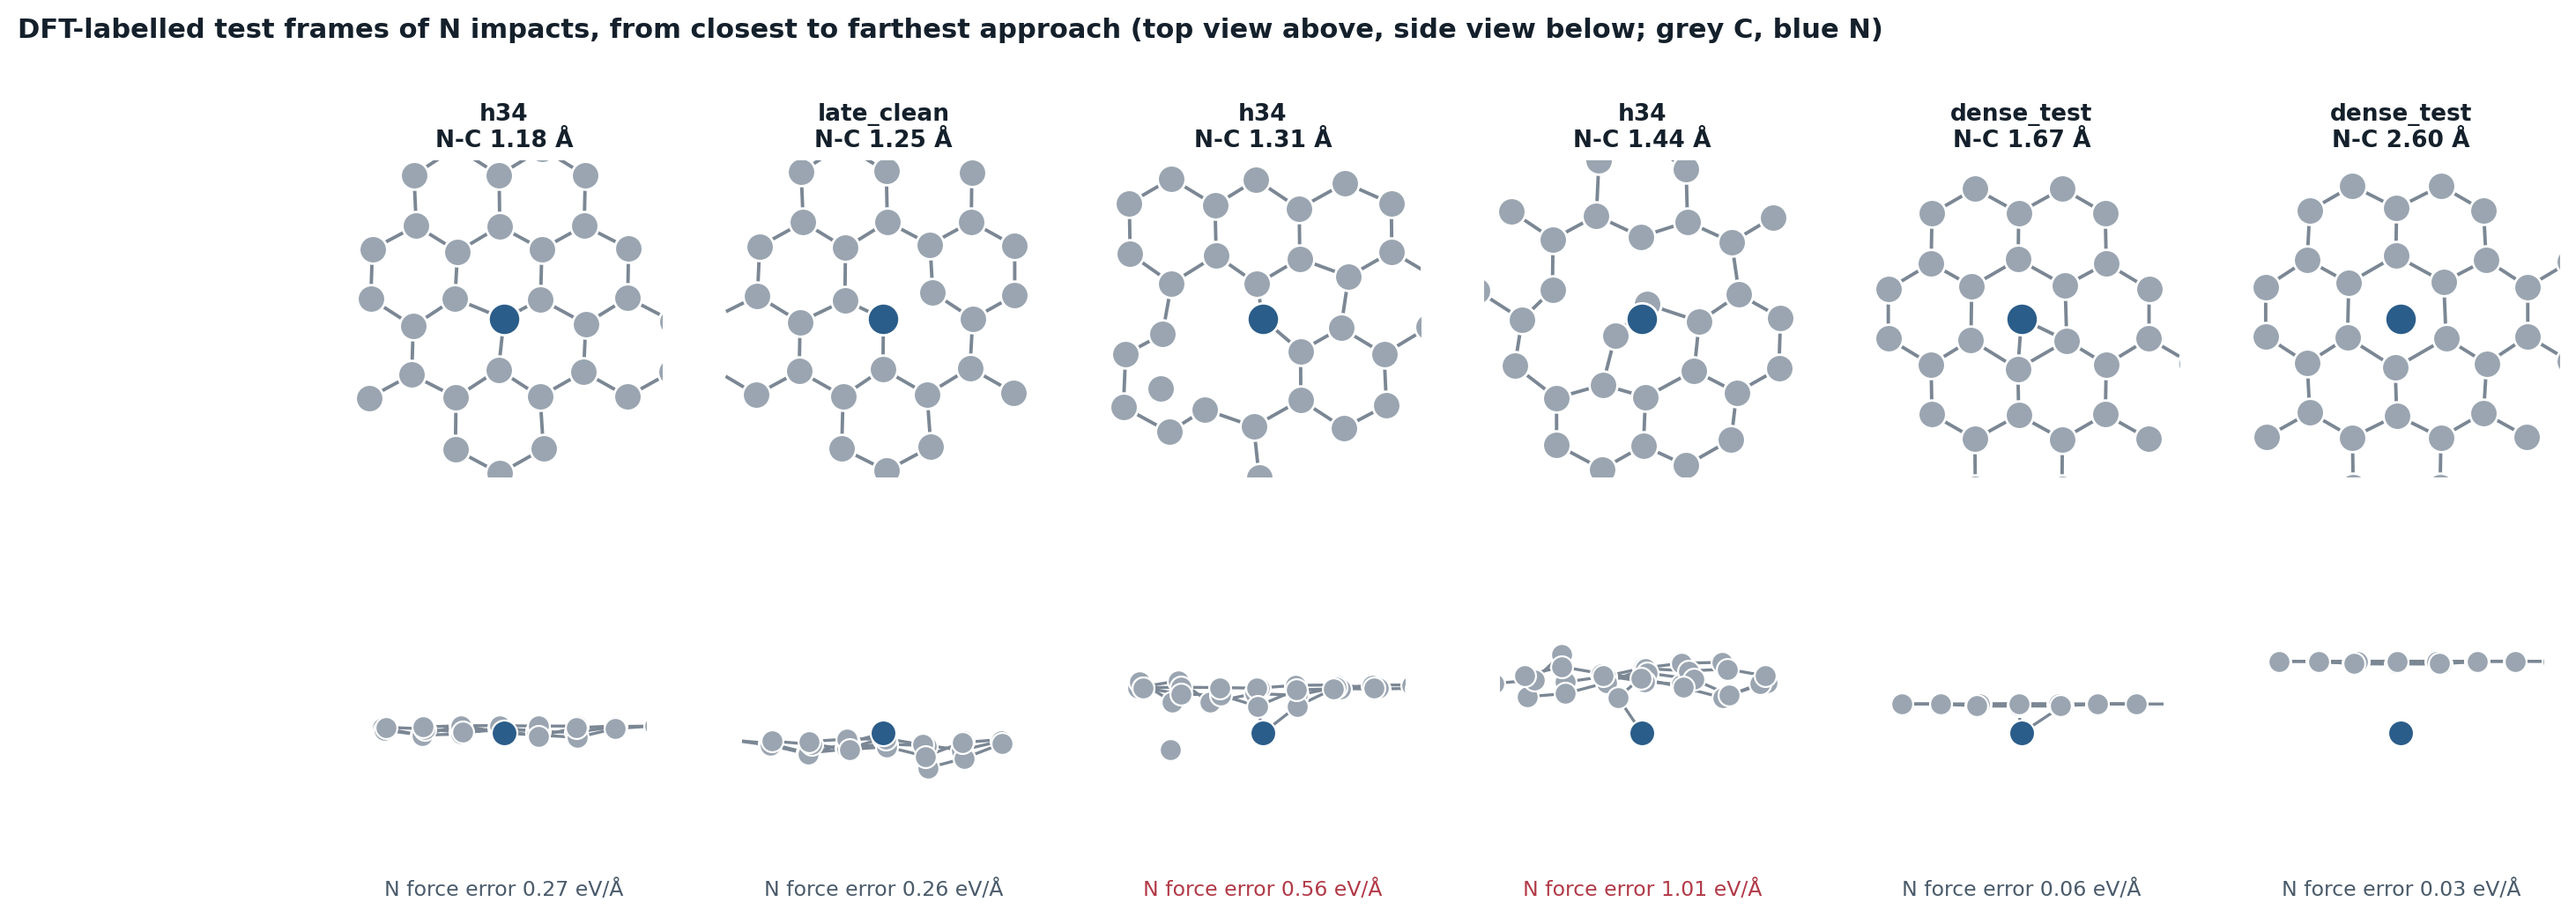
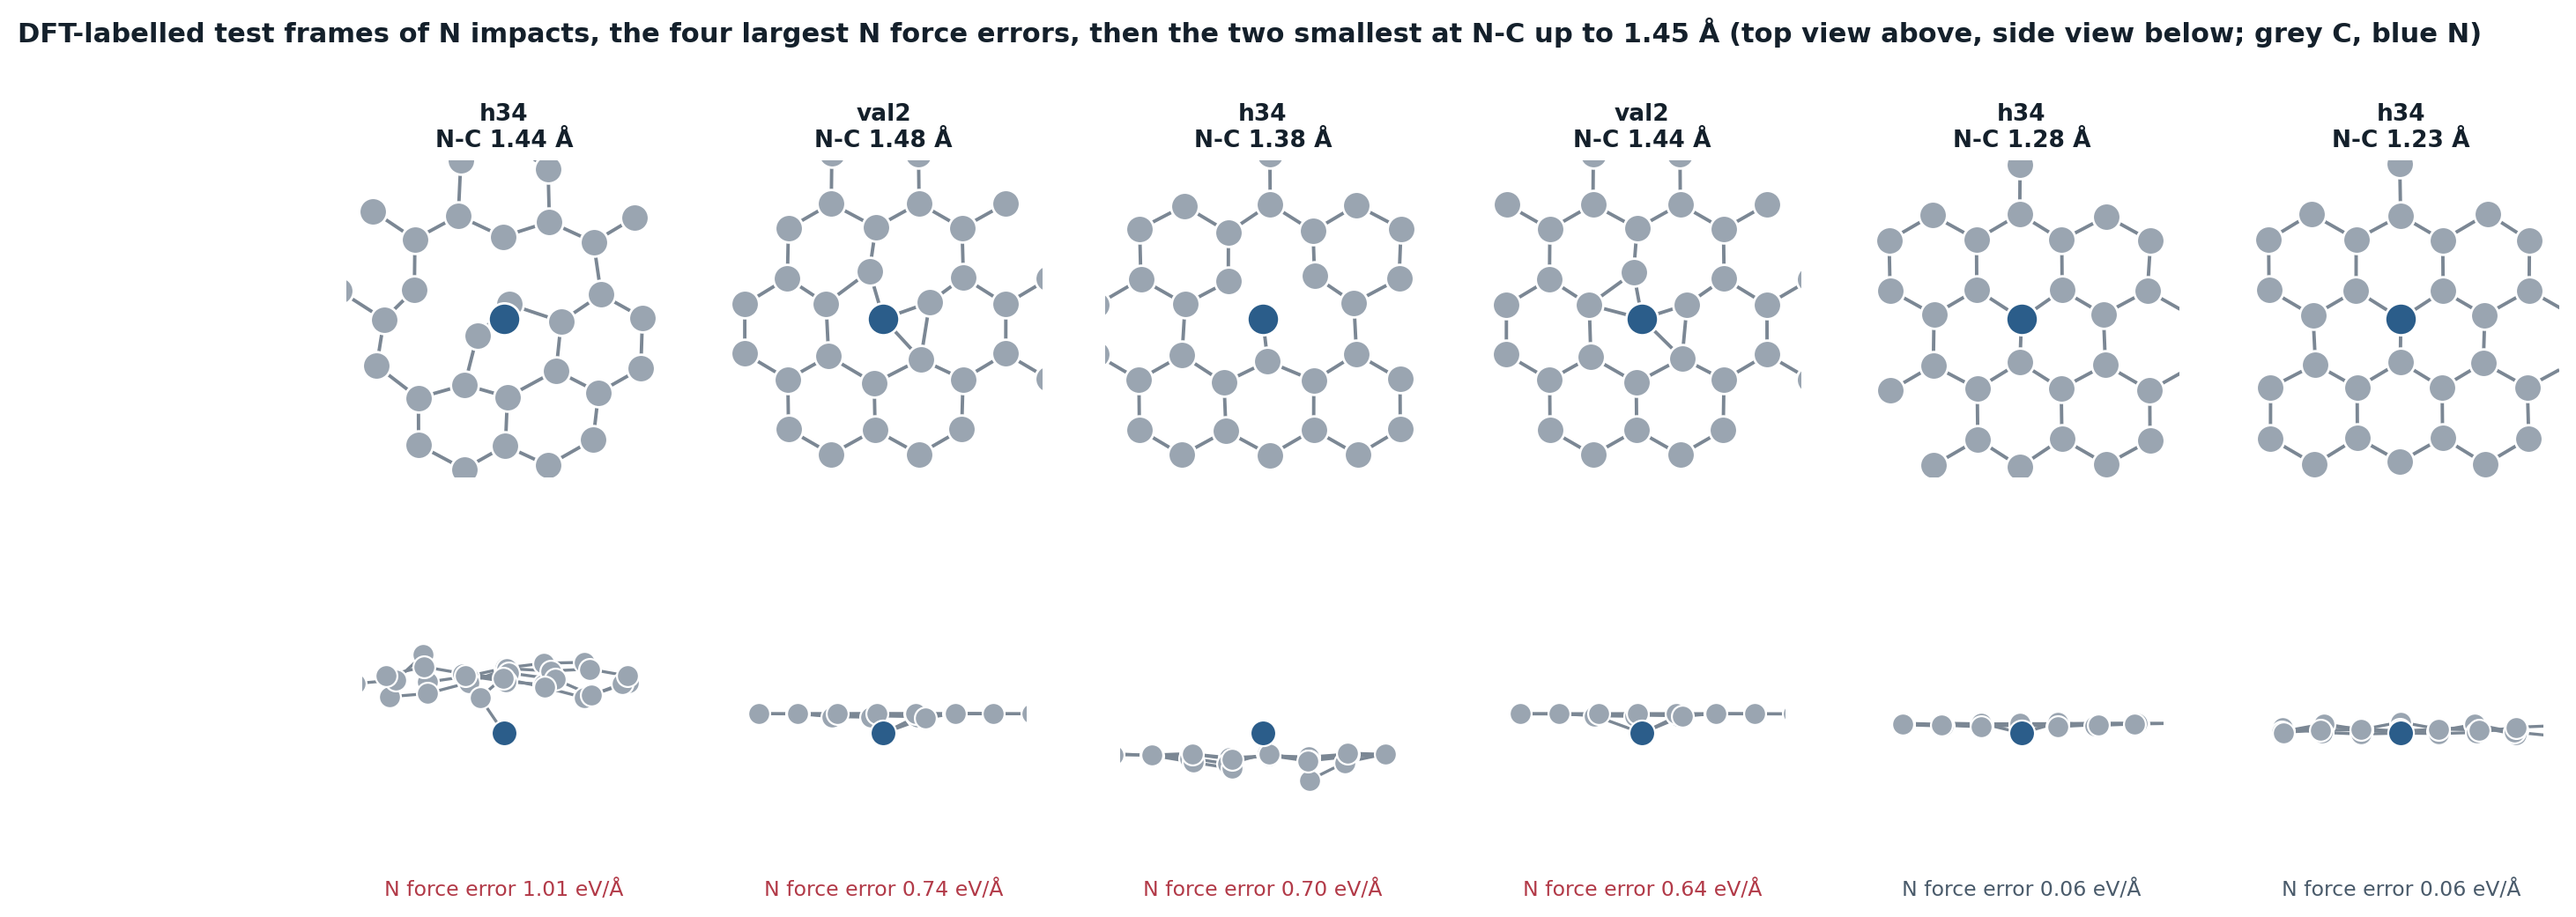
Correct the test set to 37 distinct frames (late_clean is inside h34); add R2, RMSE, MAE and bias to Figure 8; Figure 14 now shows the largest errors against matched quiet frames

diff --git a/stageB_mace_training/make_figs_data.py b/stageB_mace_training/make_figs_data.py
@@ -26,9 +26,9 @@ plt.rcParams.update({"font.family": ["DejaVu Sans"], "font.size": 10, "axes.spin
                      "axes.edgecolor": "#4a5b6b", "axes.labelcolor": "#14202b", "xtick.color": "#14202b", "ytick.color": "#14202b",
                      "text.color": "#14202b", "figure.facecolor": "white", "axes.facecolor": "white"})
 INK, MUTE, BLUE, ORG, GREY, RED, TEAL = "#14202b", "#4a5b6b", "#2b5d8a", "#b8741a", "#9aa5b1", "#b23a48", "#2a8c82"
-SETS = {"h34": "data/nimpact_h34/labelled.db", "late_clean": "data/nimpact_late_clean/labelled.db",
+SETS = {"h34": "data/nimpact_h34/labelled.db", 
         "dense_test": "data/nimpact_dense_test/labelled.db", "val2": "data/nimpact_val2/labelled.db"}
-SETCOL = {"h34": BLUE, "late_clean": ORG, "dense_test": TEAL, "val2": RED}
+SETCOL = {"h34": BLUE, "dense_test": TEAL, "val2": RED}
 TRAIN = {"Ar scans": "data/arscan/labelled.db", "N scans": "data/nscan/labelled.db", "N defects": "data/ndefects/labelled.db",
          "N impacts (v6)": "data/nimpact/labelled_impacts_all_v6.db"}
 
@@ -174,7 +174,9 @@ fig.savefig(out / "fig13_label_coverage.png", dpi=200, bbox_inches="tight"); plt
 
 # ---------------------------------------------------------------- fig 14: gallery of DFT frames along impacts
 cand = sorted([r for r in rows if r["iN"] and np.isfinite(r["d"])], key=lambda r: r["d"])
-pick = [cand[int(q * (len(cand) - 1))] for q in (0.0, 0.2, 0.4, 0.6, 0.8, 1.0)] if cand else []
+_ce = sorted([r for r in cand if np.isfinite(r["fN_err"])], key=lambda r: -r["fN_err"])
+_lo = sorted([r for r in _ce if r["d"] <= 1.45], key=lambda r: r["fN_err"])[:2]
+pick = (_ce[:4] + _lo) if len(_ce) >= 6 and len(_lo) == 2 else []
 COL = {"C": GREY, "N": BLUE, "Ar": TEAL}
 fig, axs = plt.subplots(2, len(pick), figsize=(2.7 * len(pick), 5.6), gridspec_kw={"height_ratios": [1, 0.7]})
 for k, r in enumerate(pick):
@@ -198,7 +200,7 @@ for k, r in enumerate(pick):
     sx.set_aspect("equal"); sx.set_xlim(-R, R); sx.set_ylim(-4.5, 4.5); sx.axis("off")
     ax.set_title(f"{r['set']}\nN-C {r['d']:.2f} Å", fontsize=9.5, fontweight="bold")
     sx.text(0, -4.6, f"N force error {r['fN_err']:.2f} eV/Å", ha="center", va="top", fontsize=8.5, color=RED if r["fN_err"] > 0.4 else MUTE)
-fig.suptitle("DFT-labelled test frames of N impacts, from closest to farthest approach (top view above, side view below; grey C, blue N)",
+fig.suptitle("DFT-labelled test frames of N impacts, the four largest N force errors, then the two smallest at N-C up to 1.45 Å (top view above, side view below; grey C, blue N)",
              x=0.01, ha="left", fontsize=11, fontweight="bold")
 fig.savefig(out / "fig14_dft_frames.png", dpi=200, bbox_inches="tight"); plt.close(fig)
 

diff --git a/README.md b/README.md
@@ -37,7 +37,7 @@ Stage D is a loop (Figure 2): run impacts with the current model, select frames 
 
 Fine-tuning starts from omat-0, keeps the elements C, N and Ar, uses atomic reference energies measured with the same DFT recipe, and weights forces on the projectile more strongly. All data go into training, so the end-of-training errors only measure the fit. The generalisation evidence comes from test sets of **whole impacts** held out of training: frames from one impact are 5 fs apart and nearly identical, so splitting by frame would leak.
 
-About 230 DFT frames are in the training databases and 41 in four held-out test sets (Figure 3).
+About 230 DFT frames are in the training databases and 37 distinct frames in three held-out test sets (Figure 3).
 
 ![Figure 3: DFT frames per database](figures/fig15_data_composition.png)
 
@@ -99,15 +99,15 @@ Two problems in the data had to be fixed before any model could be trusted.
 
 ### 5.2 How well does the model do on unseen impacts?
 
-Figure 8 compares the final model (n10) with DFT on the 41 held-out frames (1338 atoms). Forces on all atoms follow the diagonal over a range of ±20 eV/Å with a pooled RMSE of 0.126 eV/Å, an MAE of 0.071 eV/Å and R² = 0.996 (RMSE 0.09 to 0.15 eV/Å per set). The forces on the N atom, up to 15 eV/Å, fall on the diagonal too, with an RMSE of 0.352 eV/Å and an MAE of 0.234 eV/Å (41 N atoms, 123 components): about three times the all-atom error, on the atom that matters most. R² is 0.996 in both panels only because the forces span ±15 to ±20 eV/Å, so the RMSE is the number to read. The energy panel is more informative. The mean absolute error is 4.5 meV/atom over all frames (1.9 to 5.6 meV/atom per set), with a mean bias of −2.8 meV/atom, but the errors are not random: all frames of dense_test and val2 sit about 5 meV/atom below DFT with little spread, which looks like a roughly constant shift per frame (about 0.15 eV for a frame of 33 atoms, the average of the test frames). A constant shift does not change forces or dynamics, but it does change binding and formation energies, and it is of the same order as the errors in section 5.4. The h34 set has two outliers, at −12 and −23 meV/atom; the larger is about 0.8 eV for an average-sized frame (the atom count of that frame was not checked). Atoms within a frame are not independent and the frames come from a small number of impacts (see below), so these numbers describe these 41 frames only.
+Figure 8 compares the final model (n10) with DFT on the 37 held-out frames (1210 atoms). Forces on all atoms follow the diagonal over a range of ±20 eV/Å with a pooled RMSE of 0.130 eV/Å, an MAE of 0.073 eV/Å and R² = 0.996 (RMSE 0.09 to 0.15 eV/Å per set). The forces on the N atom, up to 15 eV/Å, fall on the diagonal too, with an RMSE of 0.362 eV/Å and an MAE of 0.241 eV/Å (37 N atoms, 111 components, R² = 0.995): about three times the all-atom error, on the atom that matters most. R² is 0.995 to 0.996 in both force panels only because the forces span ±15 to ±20 eV/Å, so the RMSE is the number to read. The energy panel is more informative. The mean absolute error is 4.8 meV/atom over all frames (4.3 to 5.6 meV/atom per set), with a mean bias of −3.3 meV/atom, but the errors are not random: all frames of dense_test and val2 sit about 5 meV/atom below DFT with little spread, which looks like a roughly constant shift per frame (about 0.15 eV for a frame of 33 atoms, the average of the test frames). A constant shift does not change forces or dynamics, but it does change binding and formation energies, and it is of the same order as the errors in section 5.4. The h34 set has two outliers, at −12 and −23 meV/atom; the larger is about 0.8 eV for an average-sized frame (the atom count of that frame was not checked). Atoms within a frame are not independent and the frames come from a small number of impacts (see below), so these numbers describe these 37 frames only.
 
 ![Figure 8: parity plots](figures/fig11_parity.png)
 
-*Figure 8. Parity plots of MACE n10 against DFT on held-out impact frames. Left: force components of all 1338 atoms in the 41 frames (R² = 0.996, RMSE 0.126 eV/Å, MAE 0.071, bias 0.000). Middle: force components of the 41 N atoms, by test set (R² = 0.996, RMSE 0.352 eV/Å, MAE 0.234, bias −0.024). Right: energy error per frame (MAE 4.5 meV/atom, bias −2.8; largest error 23.1 meV/atom, in h34; bars: set means). R² is high because the force components span about ±15 eV/Å, so read the RMSE. Atoms within a frame are not independent, so the numbers describe these 41 frames only.*
+*Figure 8. Parity plots of MACE n10 against DFT on held-out impact frames. Left: force components of all 1210 atoms in the 37 frames (R² = 0.996, RMSE 0.130 eV/Å, MAE 0.073, bias 0.000). Middle: force components of the 37 N atoms, by test set (R² = 0.995, RMSE 0.362 eV/Å, MAE 0.241, bias −0.032). Right: energy error per frame (MAE 4.8 meV/atom, bias −3.3; largest error 23.1 meV/atom, in h34; bars: set means). R² is high because the force components span about ±15 eV/Å, so read the RMSE. Atoms within a frame are not independent, so the numbers describe these 37 frames only.*
 
 **What the test frames are.** The held-out set h34 holds the labelled frames from runs 3 and 4 of every case: 17 frames from 9 distinct impacts (top site at 20, 30 and 50 eV, runs 3 and 4; bridge at 30 eV, runs 3 and 4; bridge at 50 eV, run 3 only). Runs of the same case differ in a random shift of the impact point, up to ±0.15 Å in x and y. Frames were taken from the stored MD trajectories at 30 to 280 fs into the run, at chosen delays after the closest approach, so they test the collision and the damaged sheet that follows. Before the DFT calculation, carbon atoms that had been sputtered or left isolated (more than 2.3 Å from any other atom, or more than 7 Å from the sheet plane) were removed, because free carbon atoms are magnetic in DFT and break SCF convergence, and an N further than 7 Å from the sheet was moved to 7 Å. Frames with a C-N distance below 1.1 Å or a C-C distance below 1.0 Å were not labelled. The test therefore covers the sheet without its ejected atoms, and contains no very close contacts. Thirteen of the 17 frames are top-site impacts, the site where the model extrapolates below 1.1 Å, so the h34 error is mostly a top-site error.
 
-Figure 9 shows the force error on the N atom for the five models on four test sets, all made of whole impacts.
+Figure 9 shows the force error on the N atom for the five models on the three test sets, all made of whole impacts, and on the four late frames that belong to h34.
 
 ![Figure 9: test errors](figures/fig3_test_errors.png)
 
@@ -116,11 +116,11 @@ Figure 9 shows the force error on the N atom for the five models on four test se
 | Test set | n6 | n7 | n8 | n9 | n10 |
 |---|---|---|---|---|---|
 | h34 (17 frames) | 0.464 | 0.514 | 0.511 | 0.429 | 0.426 |
-| late_clean (4) | 0.272 | 0.373 | 0.349 | 0.229 | 0.232 |
+| late frames (4, inside h34) | 0.272 | 0.373 | 0.349 | 0.229 | 0.232 |
 | dense_test (10, hollow) | 0.718 | 0.186 | 0.208 | 0.213 | 0.236 |
 | val2 (10) | 1.080 | 0.362 | 0.346 | 0.363 | 0.349 |
 
-h34 holds the frames of impact runs r3 and r4; late_clean holds four late-time frames; dense_test holds hollow-site frames; val2 is a second validation set.
+h34 holds the frames of impact runs r3 and r4 (17 frames from 9 impacts, top and bridge sites). The four late frames (65 to 280 fs, top site) belong to h34; they are listed separately because they test the late, damaged-sheet stage. dense_test holds 10 hollow-site frames from 5 impacts, held out by whole impact from the dense hollow scan. val2, a second validation set, holds 10 hollow-site frames from 6 impacts at 40 and 55 eV (runs 0 to 2).
 
 Three readings follow.
 
@@ -128,9 +128,9 @@ Three readings follow.
 - n9 and n10 improve on h34 (0.43 against 0.46 to 0.51). This is the clean evidence of progress between n8 and n10.
 - On near-contact top and bridge frames, all models stay at 0.4 to 0.5 eV/Å. Between 0.15 and 0.3 eV/Å of that is the difference between spin-polarised and unpolarised DFT labels, which a model that does not see spin cannot resolve.
 
-**A data leak, found and corrected.** The original `late_test` set had nine frames. The script that created the h34 split also read that database as a source, so five of its frames ended up in the training data of n9 and n10. Their `late_test` errors (0.163 and 0.165 eV/Å) were therefore not held-out numbers. The corrected set `late_clean` keeps the four frames that are in no training set. There, n9 and n10 give 0.23 eV/Å against 0.27 to 0.37 for n6 to n8, a gain that is real against n7 and n8 but within noise against n6. h34, dense_test and val2 have no overlap with any training set.
+**A data leak, found and corrected.** The original `late_test` set had nine frames. The script that created the h34 split also read that database as a source, so five of its frames ended up in the training data of n9 and n10. Their `late_test` errors (0.163 and 0.165 eV/Å) were therefore not held-out numbers. The corrected set `late_clean` keeps the four frames that are in no training set. There, n9 and n10 give 0.23 eV/Å against 0.27 to 0.37 for n6 to n8, a gain that is real against n7 and n8 but within noise against n6. These four frames are also part of h34 (they are its late-time frames), so they are not a separate set and the pooled statistics count them once: 37 distinct held-out frames, not 41. h34, dense_test and val2 have no overlap with any training set (checked frame by frame against the Ar scan, N scan, N defect and N impact (v6) databases).
 
-**Where the error is.** Figure 10 plots the error of each held-out frame against its shortest N-C distance. The shortest distance in any held-out frame is 1.18 Å, because DFT frames closer than 1.1 Å were never labelled, and Figure 11 shows the same for the training data: no label below 1.1 Å, most between 1.2 and 1.5 Å. The tests therefore say nothing about the region below 1.1 Å. Inside the range that is tested the error does not rise towards short distance. The four largest errors (0.65 to 1.0 eV/Å) are at 1.38 to 1.48 Å, and three of the four late_clean frames, at 1.18 to 1.25 Å, are at 0.26 to 0.27 eV/Å. The large errors belong to frames with a damaged sheet (Figure 14, third and fourth frames: a displaced or detached carbon atom, a broken ring). My reading is that these frames contain under-coordinated carbon with radical character, where the spin ambiguity described under the limitations applies; this is an inference and was not tested.
+**Where the error is.** Figure 10 plots the error of each held-out frame against its shortest N-C distance. The shortest distance in any held-out frame is 1.18 Å, because DFT frames closer than 1.1 Å were never labelled, and Figure 11 shows the same for the training data: no label below 1.1 Å, most between 1.2 and 1.5 Å. The tests therefore say nothing about the region below 1.1 Å. Inside the range that is tested the error does not rise towards short distance. The four largest errors (0.64 to 1.01 eV/Å) are at 1.38 to 1.48 Å, and three of the four late frames, at 1.18 to 1.25 Å, are at 0.26 to 0.27 eV/Å. Figure 14 shows the four frames with the largest errors next to the two frames with the smallest errors at similar N-C distances (up to 1.45 Å). In the four worst frames the sheet is disrupted around the N (broken rings, a carbon pulled out of its ring position, in one case a missing carbon with another displaced below the sheet) and the N sits out of the sheet plane; in the two quiet frames, at 1.23 and 1.28 Å, the sheet is intact and flat and the N is in the plane. At similar distances, then, the error follows the damage to the sheet and the position of the N, not the distance. Six frames, chosen as the extremes, show this as an association, not a measured relation. My reading is that the disrupted frames contain under-coordinated carbon with radical character, where the spin ambiguity described under the limitations applies; this is an inference and was not tested.
 
 ![Figure 10: error against N-C distance](figures/fig12_error_vs_distance.png)
 
@@ -158,11 +158,11 @@ Figure 13 shows the outcome of five impacts per case with the final model, for t
 - **Hollow site: transmitted at 30 and 50 eV, mostly bound at 20 eV.** The effective barrier for pushing N through the ring is therefore between 20 and 30 eV. No carbon atom is ejected. This is the best-validated channel, because the minimum N-C distance (1.14 to 1.54 Å at 20 eV, 1.27 to 1.40 Å above) stays inside the DFT-labelled region.
 - **Bridge site: depends on the energy and the model.** At 50 eV most impacts (4 of 5 with n10) are transmitted. At 30 eV a bound state is the majority. At 20 eV the outcome depends on the model: n6 and n10 give mostly bound, n7 and n8 mostly reflected. These cases sit where the kinetic energy is close to the barrier, and a force error of 0.4 to 0.5 eV/Å over about 0.3 Å is 0.1 to 0.15 eV, about the size of the margin. The model dependence reflects a small energy margin, not chaos, and it means no probability can be quoted.
 
-Figure 14 shows what the labelled frames of such impacts look like, from the closest to the farthest approach: a flat sheet with N in the plane, then a sheet in which the N has pushed through and a carbon atom has been displaced, and finally an N below an intact sheet.
+Figure 14 shows what the labelled frames of such impacts look like. The four frames with the largest force errors are on the left and the two frames with the smallest errors at similar N-C distances are on the right: the large errors go with a disrupted sheet and an N out of the plane, the small ones with an intact flat sheet and the N in the plane.
 
 ![Figure 14: DFT frames](figures/fig14_dft_frames.png)
 
-*Figure 14. Held-out DFT frames of N impacts, ordered by shortest N-C distance (top view above, side view below; grey C, blue N). The red labels mark force errors above 0.4 eV/Å.*
+*Figure 14. Held-out DFT frames of N impacts: the four largest N force errors (left) and the two smallest at N-C distances up to 1.45 Å (right), with the test set and the shortest N-C distance above each frame (top view above, side view below; grey C, blue N). The red labels mark force errors above 0.4 eV/Å.*
 
 ### 5.4 Chemistry of N in the sheet
 

diff --git a/stageB_mace_training/STAGE_D_RESULTS.md b/stageB_mace_training/STAGE_D_RESULTS.md
@@ -30,7 +30,7 @@ Common settings: omat-0 base, keep-elements, E0s {C: -1.254804, Ar: 0.038912, N:
 | Test set | n6 | n7 | n8 | n9 | n10 |
 |---|---|---|---|---|---|
 | h34 (17 frames, whole impacts r3/r4 held out) | 0.464 | 0.514 | 0.511 | 0.429 | 0.426 |
-| late_clean (4) | 0.272 | 0.373 | 0.349 | 0.229 | 0.232 |
+| late frames (4, inside h34) | 0.272 | 0.373 | 0.349 | 0.229 | 0.232 |
 | dense_test (10 hollow) | 0.718 | 0.186 | 0.208 | 0.213 | 0.236 |
 | val2 (10) | 1.080 | 0.362 | 0.346 | 0.363 | 0.349 |
 
@@ -38,6 +38,7 @@ All values recomputed on 8 Nov 2026 with `nimpact.py compare` (`table_all_models
 - The large gain from n6 to n7 on dense_test (0.718 to 0.186) and val2 (1.080 to 0.362) comes from the dense hollow frames added for n7. n8 to n10 are within noise of each other on these two sets.
 - LEAK FOUND (18 Nov 2026): split_h34.py read nimpact_late_test as a source, so 5 of its 9 frames are in v5/v6 (n9, n10 training). The old late_test column (n9 0.163, n10 0.165) was not held-out. late_clean = the 4 frames in no training set (data/nimpact_late_clean, table_late_clean.txt).
 - On h34 (0/17 in training) n9 and n10 are better than n6-n8 (0.43 vs 0.46-0.51). On late_clean (4 frames) n9/n10 0.23 vs n7/n8 0.35-0.37 and n6 0.27: gain over n6 is within noise. n6 is better than n7 and n8 on both near-contact sets, so the hollow-regime gain was not free.
+- The 4 late_clean frames are also in h34 (its late-time top-site frames), so the test set is 37 distinct frames, not 41. Checked by frame hash on 19 Nov 2026: no other overlap between the test sets, and none with the Ar scan, N scan, N defect and N impact (v6) databases.
 - n9 and n10 differ by at most 0.023 eV/A on any set.
 - The near-contact top/bridge regime stays at 0.4-0.5 eV/A on the N for all models; roughly 0.15-0.3 eV/A of that is the spin-label ambiguity of Section 2.
 - Late bridge 50 eV frames have energy errors of about +1.5 eV.
